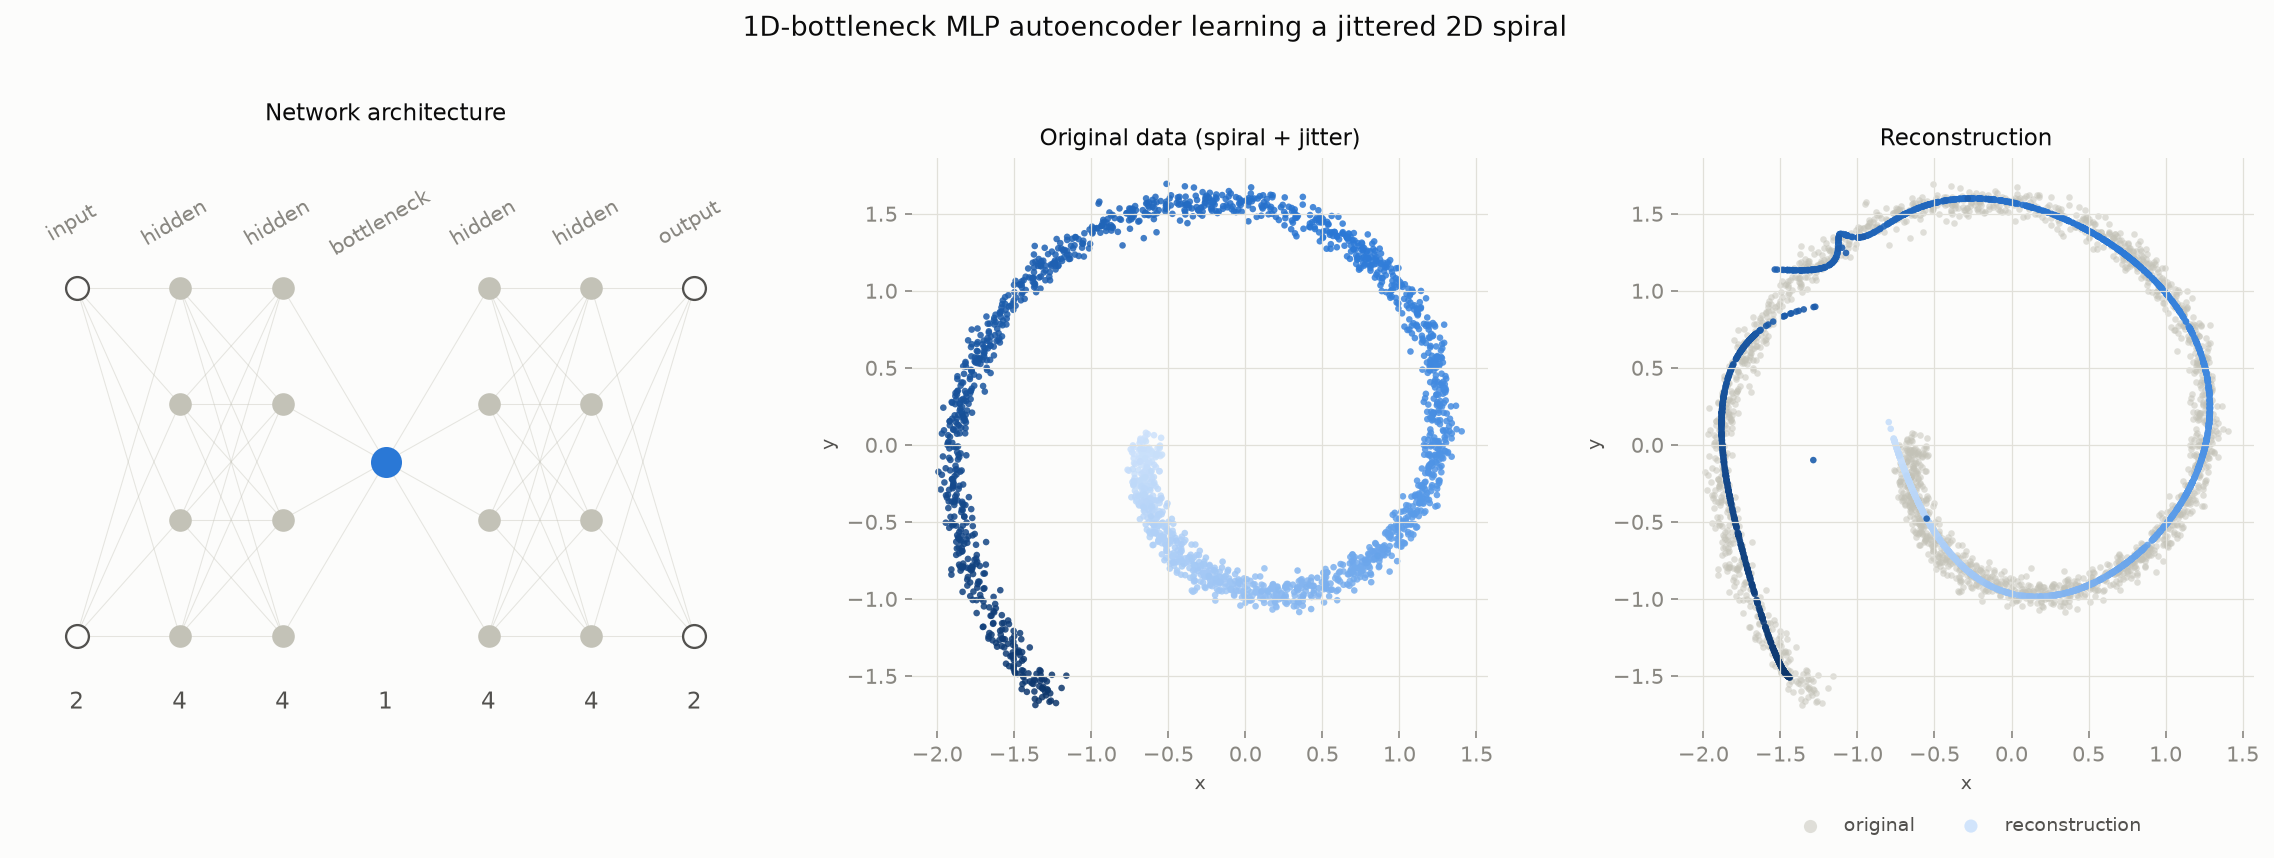
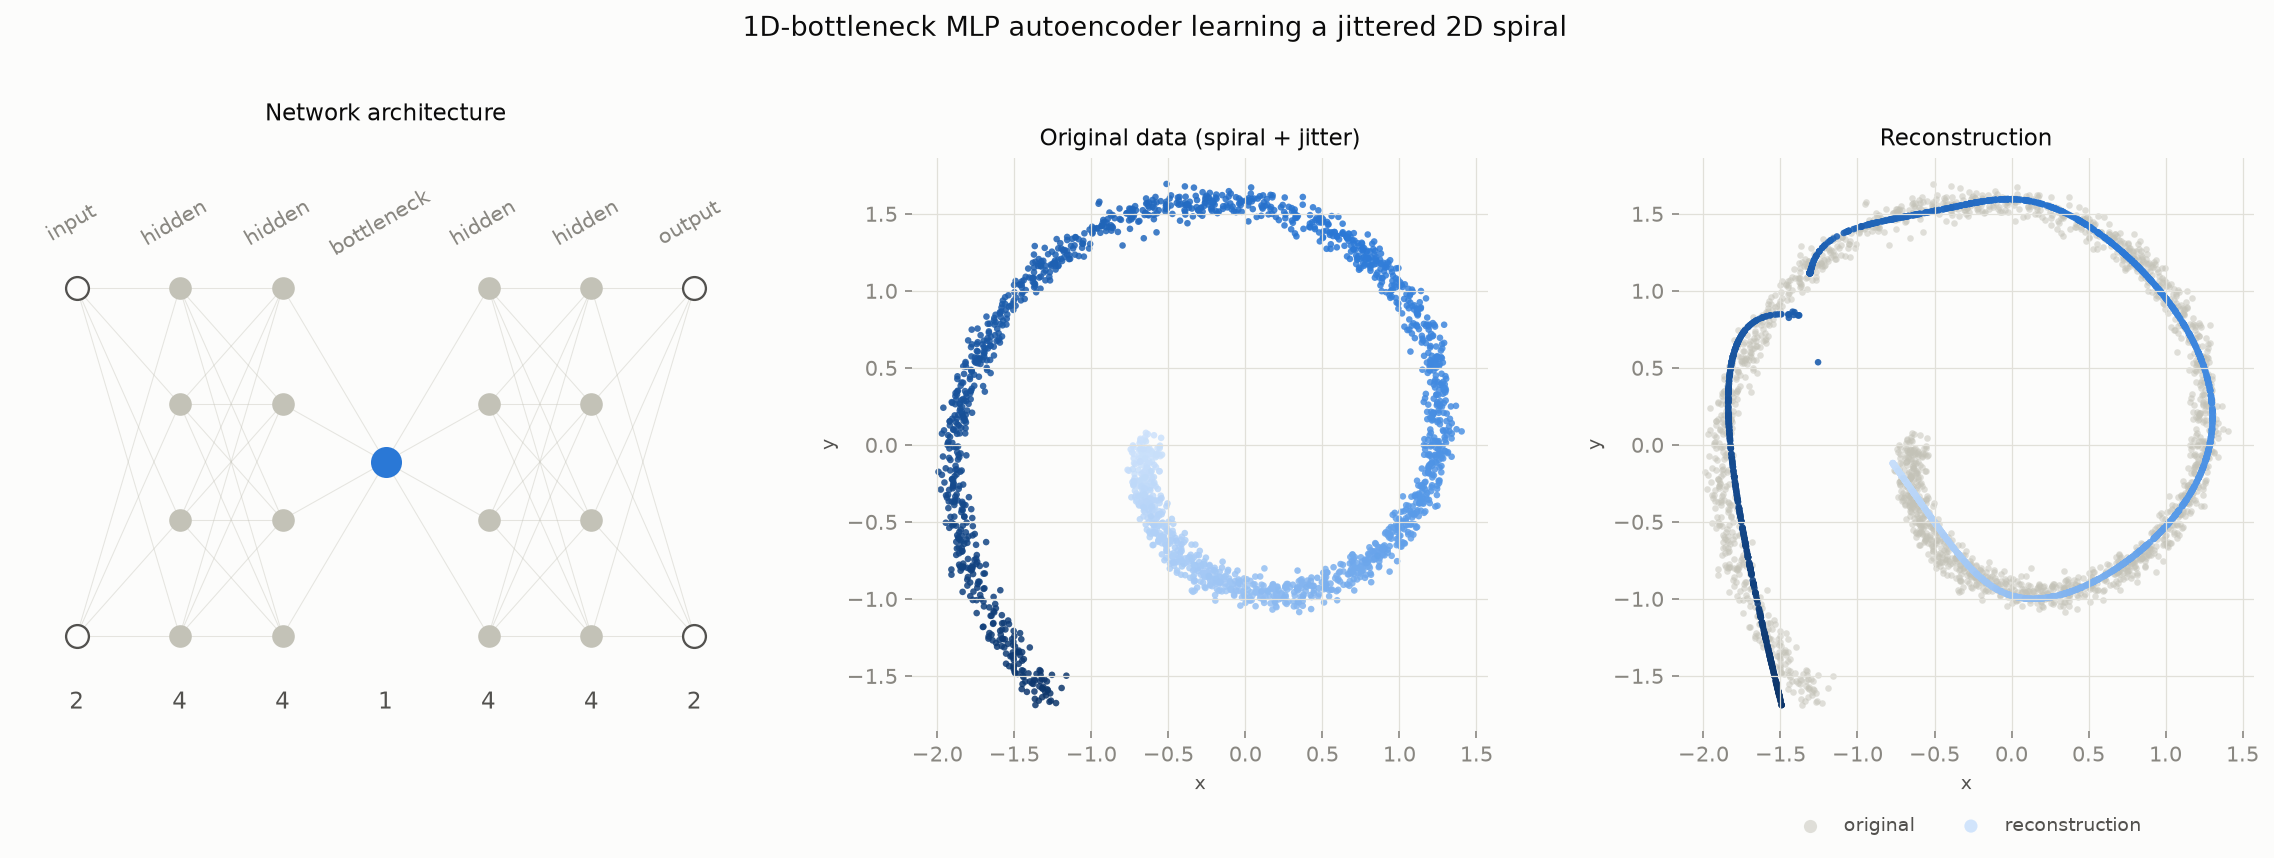
Switch hidden-layer activation from SiLU to tanh
Tanh is the more traditional choice for a small MLP autoencoder and
converges to a lower reconstruction MSE here (0.0039 vs 0.0072) at the
same 2x4 hidden-layer size.

diff --git a/autoencoder_spiral.py b/autoencoder_spiral.py
@@ -79,16 +79,16 @@ class Autoencoder(nn.Module):
         super().__init__()
         self.encoder = nn.Sequential(
             nn.Linear(2, HIDDEN_WIDTH),
-            nn.SiLU(),
+            nn.Tanh(),
             nn.Linear(HIDDEN_WIDTH, HIDDEN_WIDTH),
-            nn.SiLU(),
+            nn.Tanh(),
             nn.Linear(HIDDEN_WIDTH, 1),
         )
         self.decoder = nn.Sequential(
             nn.Linear(1, HIDDEN_WIDTH),
-            nn.SiLU(),
+            nn.Tanh(),
             nn.Linear(HIDDEN_WIDTH, HIDDEN_WIDTH),
-            nn.SiLU(),
+            nn.Tanh(),
             nn.Linear(HIDDEN_WIDTH, 2),
         )
 
